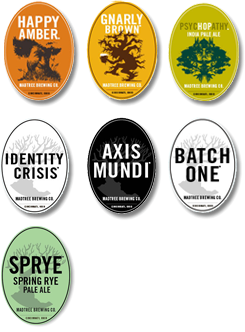
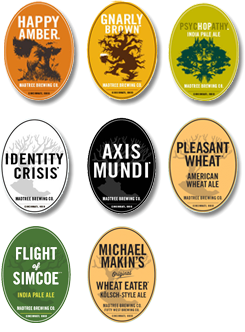
Add new copy to site

Changed region(s): [[0.0, 0.6627, 0.3143, 0.994], [0.3429, 0.6627, 0.6571, 0.994], [0.6857, 0.3313, 0.9714, 0.6627]]

diff --git a/source/stylesheets/pages/_home.scss b/source/stylesheets/pages/_home.scss
@@ -1,4 +1,15 @@
 body.index {
+  .hours {
+    margin-bottom: calc-em(8px);
+  }
+  .address {
+    > span {
+      font-size: calc-em(14px);
+      line-height: calc-em(21px, 14px);
+      display: block;
+    }
+
+  }
 
   .main-content {
     .main-container {
@@ -51,6 +62,12 @@ body.index {
       }
     }
     .news-articles {
+      h4 {
+        font-family: $body-font-family;
+        text-transform: none;
+        font-size: calc-em(16px);
+        margin: 0 0 calc-em(3px, 16px);
+      }
       @include respond-to('48em') {
         //767px
         padding-bottom: calc-em(100px); 
@@ -59,6 +76,7 @@ body.index {
     .news-article {
       p {
         font-size: calc-em(13px);
+        margin-bottom: calc-em(3px, 13px);
       } 
     }
   }
@@ -75,7 +93,7 @@ body.index {
     text-align: center;
     @include respond-to('48em') {
       position: absolute;
-      bottom: 100px;
+      bottom: 80px;
       left: 80px;
     }
   }

diff --git a/source/stylesheets/pages/_beer.scss b/source/stylesheets/pages/_beer.scss
@@ -23,7 +23,7 @@ body.beer {
     margin-bottom: calc-em(36px);
     $offset-x: -4;
     $offset-y: 0;
-    $beer-list: happy-amber, gnarly-brown, psychopathy, identity-crisis, axis-mundi, batch-one, sprye;  
+    $beer-list: happy-amber, gnarly-brown, psychopathy, identity-crisis, axis-mundi, pleasant-wheat, flight-of-simcoe, wheat-eater;  
     @for $i from 1 through length($beer-list) {
       $beer: nth($beer-list, $i);
       .#{$beer} {
@@ -38,10 +38,11 @@ body.beer {
             $offset-x: ($offset-x - ($i - 4) * 82);
           }
           $offset-y: -117px;
-        }
-        @if $i == length($beer-list) {
-          $offset-x: 0;
-          $offset-y: -224px;
+          @if $i >= 7 {
+            $offset-x: 0;
+            $offset-x: ($offset-x - ($i - 7) * 82);
+            $offset-y: -224px;
+          }
         }
         background-position: ($offset-x + px) $offset-y;
         $offset-x: ($offset-x - 82);
